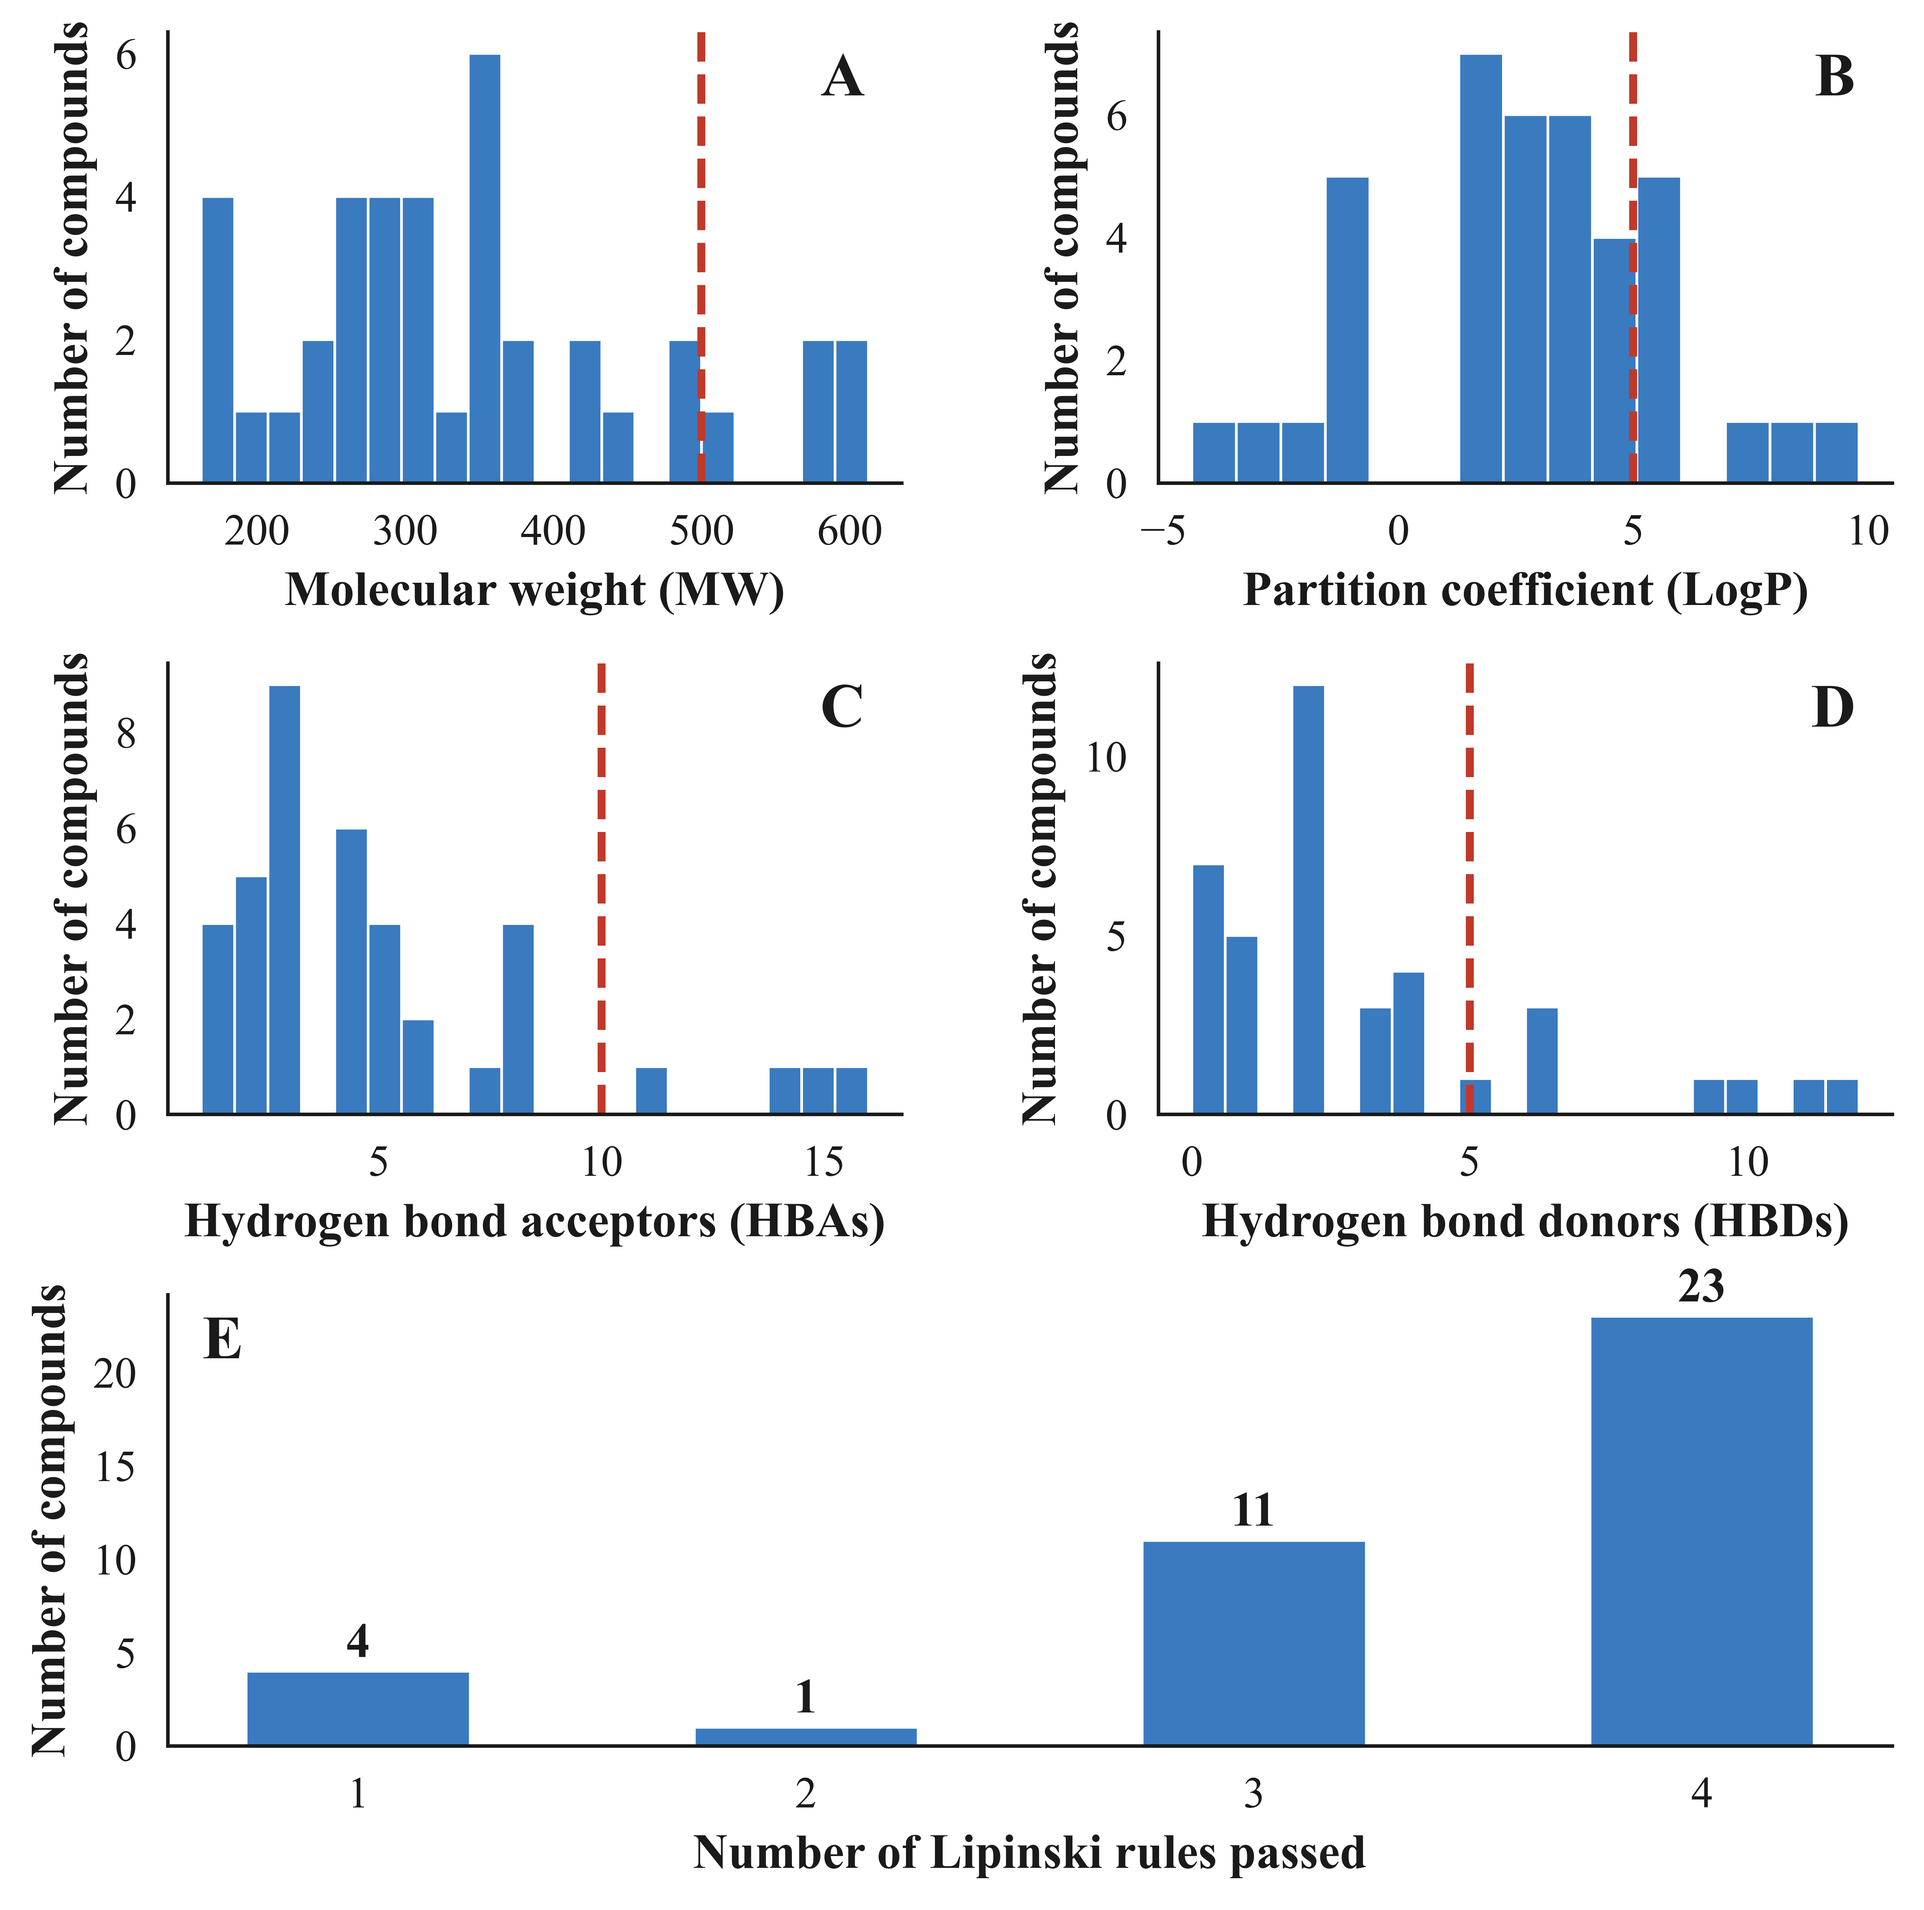
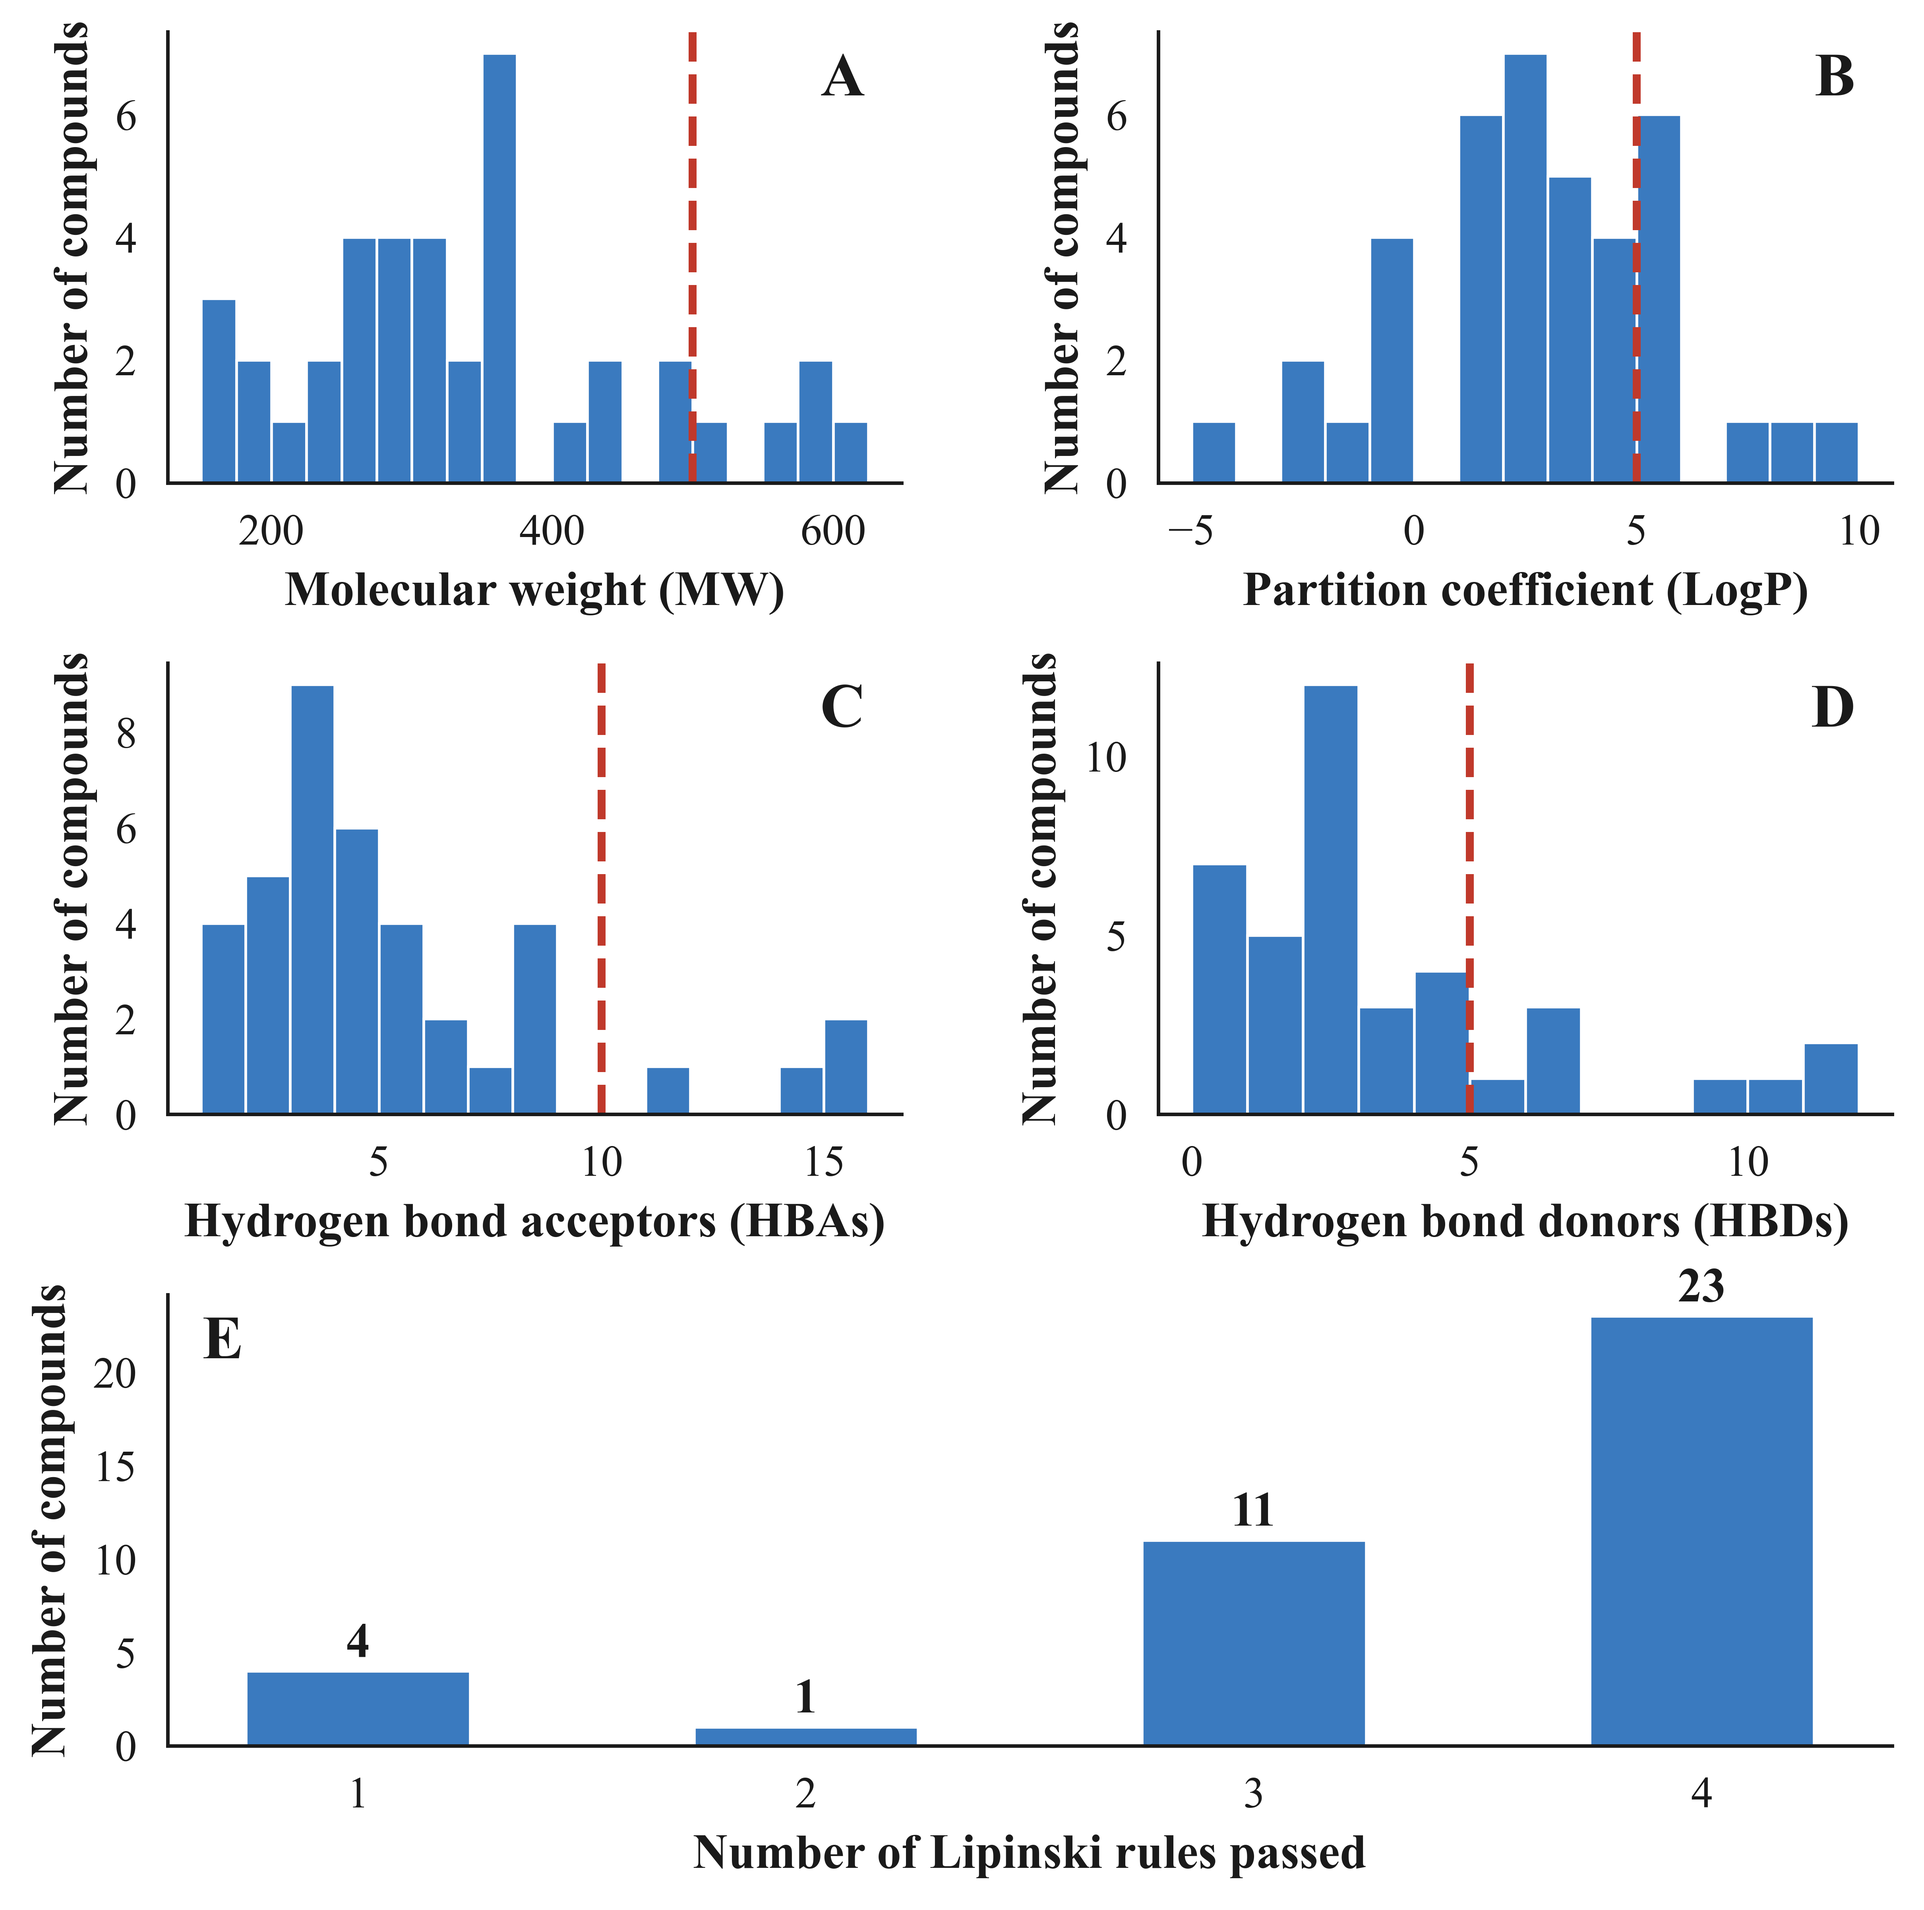
improve graphic

diff --git a/lipin.py b/lipin.py
@@ -2,11 +2,21 @@ import matplotlib.pyplot as plt
 import matplotlib.gridspec as gridspec
 import seaborn as sns
 import pandas as pd
+import numpy as np
 
 TABLE3_FILE = 'Bioactive_Analysis_Full.csv'
 SORTED_TABLE3_FILE = 'Bioactive_Analysis_Full_Lipinski_Sorted.csv'
 COMPOUND_COLUMN = 'Bioactive Compounds'
 RULES_PASSED_COLUMN = 'Lipinski_Rules_Passed'
+
+# Histogram bin-width configuration. Adjust these values to change the width
+# of each numeric histogram bin (in the unit used by that measurement).
+BIN_WIDTHS = {
+    'MW': 25,
+    'LogP': 1,
+    'HBA': 1,
+    'HBD': 1,
+}
 
 # Table 3 is ordered from the highest to the lowest number of Lipinski rules
 # passed. Compound names are alphabetized within each group for easy lookup.
@@ -60,8 +70,19 @@ def add_panel_label(ax, letter, x=0.95, ha='right'):
             bbox=dict(boxstyle='round,pad=0.15', facecolor=label_bg,
                       edgecolor='none', alpha=0.85))
 
+
+def bins_for(data, width):
+    """Return bin edges aligned to multiples of a chosen bin width."""
+    if width <= 0:
+        raise ValueError('Histogram bin widths must be greater than zero.')
+
+    start = np.floor(data.min() / width) * width
+    end = np.ceil(data.max() / width) * width
+    return np.arange(start, end + width, width)
+
 # --- Panel A: Molecular Weight ---
-ax_A.hist(df_final['MW'].dropna(), bins=20, color=bar_color, edgecolor='white', linewidth=0.6)
+mw = df_final['MW'].dropna()
+ax_A.hist(mw, bins=bins_for(mw, BIN_WIDTHS['MW']), color=bar_color, edgecolor='white', linewidth=0.6)
 ax_A.axvline(500, color=ref_color, linewidth=1.8, linestyle='--', label='MW = 500')
 ax_A.set_xlabel('Molecular weight (MW)', fontweight='semibold')
 ax_A.set_ylabel('Number of compounds', fontweight='semibold')
@@ -69,7 +90,8 @@ add_panel_label(ax_A, 'A')
 sns.despine(ax=ax_A)
 
 # --- Panel B: LogP ---
-ax_B.hist(df_final['LogP'].dropna(), bins=15, color=bar_color, edgecolor='white', linewidth=0.6)
+logp = df_final['LogP'].dropna()
+ax_B.hist(logp, bins=bins_for(logp, BIN_WIDTHS['LogP']), color=bar_color, edgecolor='white', linewidth=0.6)
 ax_B.axvline(5, color=ref_color, linewidth=1.8, linestyle='--', label='LogP = 5')
 ax_B.set_xlabel('Partition coefficient (LogP)', fontweight='semibold')
 ax_B.set_ylabel('Number of compounds', fontweight='semibold')
@@ -77,7 +99,8 @@ add_panel_label(ax_B, 'B')
 sns.despine(ax=ax_B)
 
 # --- Panel C: Hydrogen Bond Acceptors ---
-ax_C.hist(df_final['HBA'].dropna(), bins=20, color=bar_color, edgecolor='white', linewidth=0.6)
+hba = df_final['HBA'].dropna()
+ax_C.hist(hba, bins=bins_for(hba, BIN_WIDTHS['HBA']), color=bar_color, edgecolor='white', linewidth=0.6)
 ax_C.axvline(10, color=ref_color, linewidth=1.8, linestyle='--', label='HBA = 10')
 ax_C.set_xlabel('Hydrogen bond acceptors (HBAs)', fontweight='semibold')
 ax_C.set_ylabel('Number of compounds', fontweight='semibold')
@@ -85,7 +108,8 @@ add_panel_label(ax_C, 'C')
 sns.despine(ax=ax_C)
 
 # --- Panel D: Hydrogen Bond Donors ---
-ax_D.hist(df_final['HBD'].dropna(), bins=20, color=bar_color, edgecolor='white', linewidth=0.6)
+hbd = df_final['HBD'].dropna()
+ax_D.hist(hbd, bins=bins_for(hbd, BIN_WIDTHS['HBD']), color=bar_color, edgecolor='white', linewidth=0.6)
 ax_D.axvline(5, color=ref_color, linewidth=1.8, linestyle='--', label='HBD = 5')
 ax_D.set_xlabel('Hydrogen bond donors (HBDs)', fontweight='semibold')
 ax_D.set_ylabel('Number of compounds', fontweight='semibold')
@@ -109,7 +133,6 @@ add_panel_label(ax_E, 'E', x=0.02, ha='left')
 sns.despine(ax=ax_E)
 
 plt.savefig('Bioactive_Analysis_Charts_Fixed.png', dpi=800, bbox_inches='tight')
-plt.show()
 
 print(
     "Table 3 sorted by Lipinski rules passed and saved as "

diff --git a/draw_molecules.py b/draw_molecules.py
@@ -36,14 +36,21 @@ TEXT_POSITION = {
     'single_name_y': 1.08,      # Y position of compound name (when plant is absent)
 }
 
+# ============================================================================
+# MOLECULE CONFIG - ปรับความหนาของเส้นพันธะและขนาดตัวอักษรของอะตอมในโมเลกุล
+# ============================================================================
+MOLECULE_CONFIG = {
+    'bond_line_width': 5.0,     # ความหนาของเส้นโมเลกุล (แนะนำ: 3.5 - 5.0 ยิ่งมากยิ่งหนาเข้ม)
+    'atom_label_min_font': 30,  # ขนาดตัวอักษรของอะตอม (เช่น OH, O, N) ให้หนาและชัดสมส่วนกับเส้น
+}
+
 FIGURE_CONFIG = {
     'n_cols': 5,                # Number of columns in grid
     'col_width_inch': 3.2,      # Width per grid cell in inches (DO NOT ADJUST PLOT SIZE)
     'row_height_inch': 2.8,     # Height per grid cell in inches
     'mol_img_width': 1000,      # RDKit drawing canvas width (pixels) - prevents blurriness
     'mol_img_height': 750,      # RDKit drawing canvas height (pixels)
-    'bond_line_width': 2.2,     # Bond stroke width for sharp chemical lines
-    'dpi': 600,                 # Output PNG resolution (300 DPI publication standard)
+    'dpi': 600,                 # Output PNG resolution (600 DPI publication standard)
     'out_path': 'bioactive_structures.png',
 }
 
@@ -87,7 +94,9 @@ def mol_to_pil(mol, width=FIGURE_CONFIG['mol_img_width'], height=FIGURE_CONFIG['
     drawer = rdMolDraw2D.MolDraw2DCairo(width, height)
     opts = drawer.drawOptions()
     opts.addStereoAnnotation = True
-    opts.bondLineWidth = FIGURE_CONFIG['bond_line_width']
+    opts.bondLineWidth = MOLECULE_CONFIG['bond_line_width']
+    if MOLECULE_CONFIG.get('atom_label_min_font', 0) > 0:
+        opts.minFontSize = MOLECULE_CONFIG['atom_label_min_font']
     drawer.DrawMolecule(mol)
     drawer.FinishDrawing()
     bio = BytesIO(drawer.GetDrawingText())
